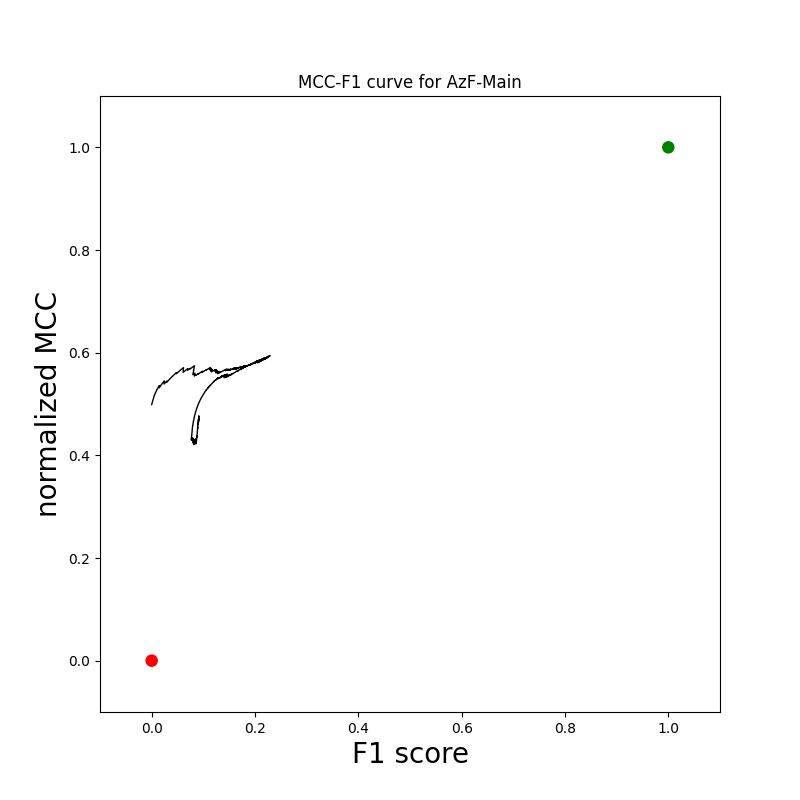
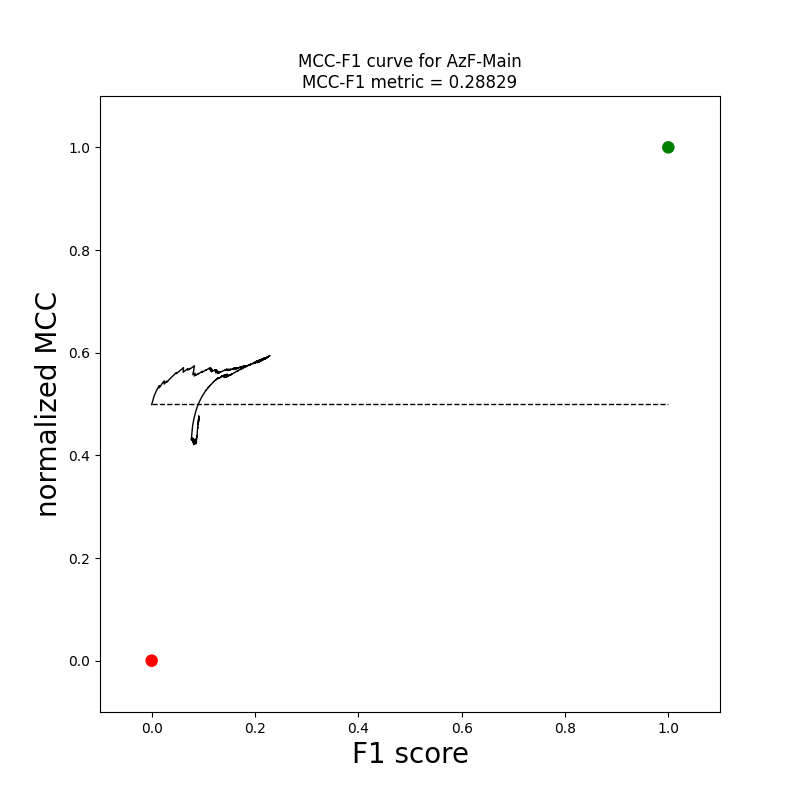
show MCC-F1 metric value in plot

Changed region(s): [[0.375, 0.0625, 0.6562, 0.125]]

diff --git a/scripts/mccf.py b/scripts/mccf.py
@@ -18,14 +18,15 @@ warnings.filterwarnings("ignore")
 
 # FUNCTIONS ===========================================================
 # make plot ------
-def plot_mcc(f1, mcc_nor, fig_name):
+def plot_mcc(f1, mcc_nor, fig_name, mcc_f1_metric):
     plt.figure(figsize=(8,8))
     plt.xlabel('F1 score', fontsize=20)
     plt.ylabel('normalized MCC', fontsize=20)
     plt.xlim(-0.1,1.1)
     plt.ylim(-0.1,1.1)
-    plt.title('MCC-F1 curve for %s' %(fig_name.split('/')[-1].split('.')[0]))
+    plt.title('MCC-F1 curve for %s\nMCC-F1 metric = %7.5f' %(fig_name.split('/')[-1].split('.')[0], mcc_f1_metric))
     plt.scatter([0,1], [0,1], c=['red', 'green'], s=2**6)
+    plt.hlines(0.5, xmin=0.0, xmax=1.0, linestyles='--', colors='black', linewidth=1)
     plt.plot(f1, mcc_nor, color='black', linewidth=1)
     plt.savefig(fig_name)
 
@@ -56,13 +57,6 @@ for mcc_file in mcc_file_list:
 
     # get rid of NaN values in MCC and F1
     mccNorF1_truncated = mccNor_f1_cfs[~np.isnan(mccNor_f1_cfs).any(axis=1)]
-
-    # --------------------------------------
-    # make plot
-    # --------------------------------------
-    fig_name = '%s/%s.png' %(fig_dir, mcc_file.split('.')[0])
-    plot_mcc(mccNorF1_truncated[:,1], mccNorF1_truncated[:,0], fig_name)
-    # ======================================
 
     # --------------------------------------
     # calculate MCC-F1 metric
@@ -114,4 +108,13 @@ for mcc_file in mcc_file_list:
 
     out_file.write('%s      %7.5f\n' %(mcc_file, MCC_F1_metric))
     # ======================================
+
+    # --------------------------------------
+    # make plot
+    # --------------------------------------
+    fig_name = '%s/%s.png' %(fig_dir, mcc_file.split('.')[0])
+    plot_mcc(mccNorF1_truncated[:,1], mccNorF1_truncated[:,0], fig_name, MCC_F1_metric)
+    # ======================================
+    
+out_file.close()
 print('\n           DONE!!!\n Figures saved in %s\nOutput saved in %s\n' %(fig_dir, mcc_output_file))
